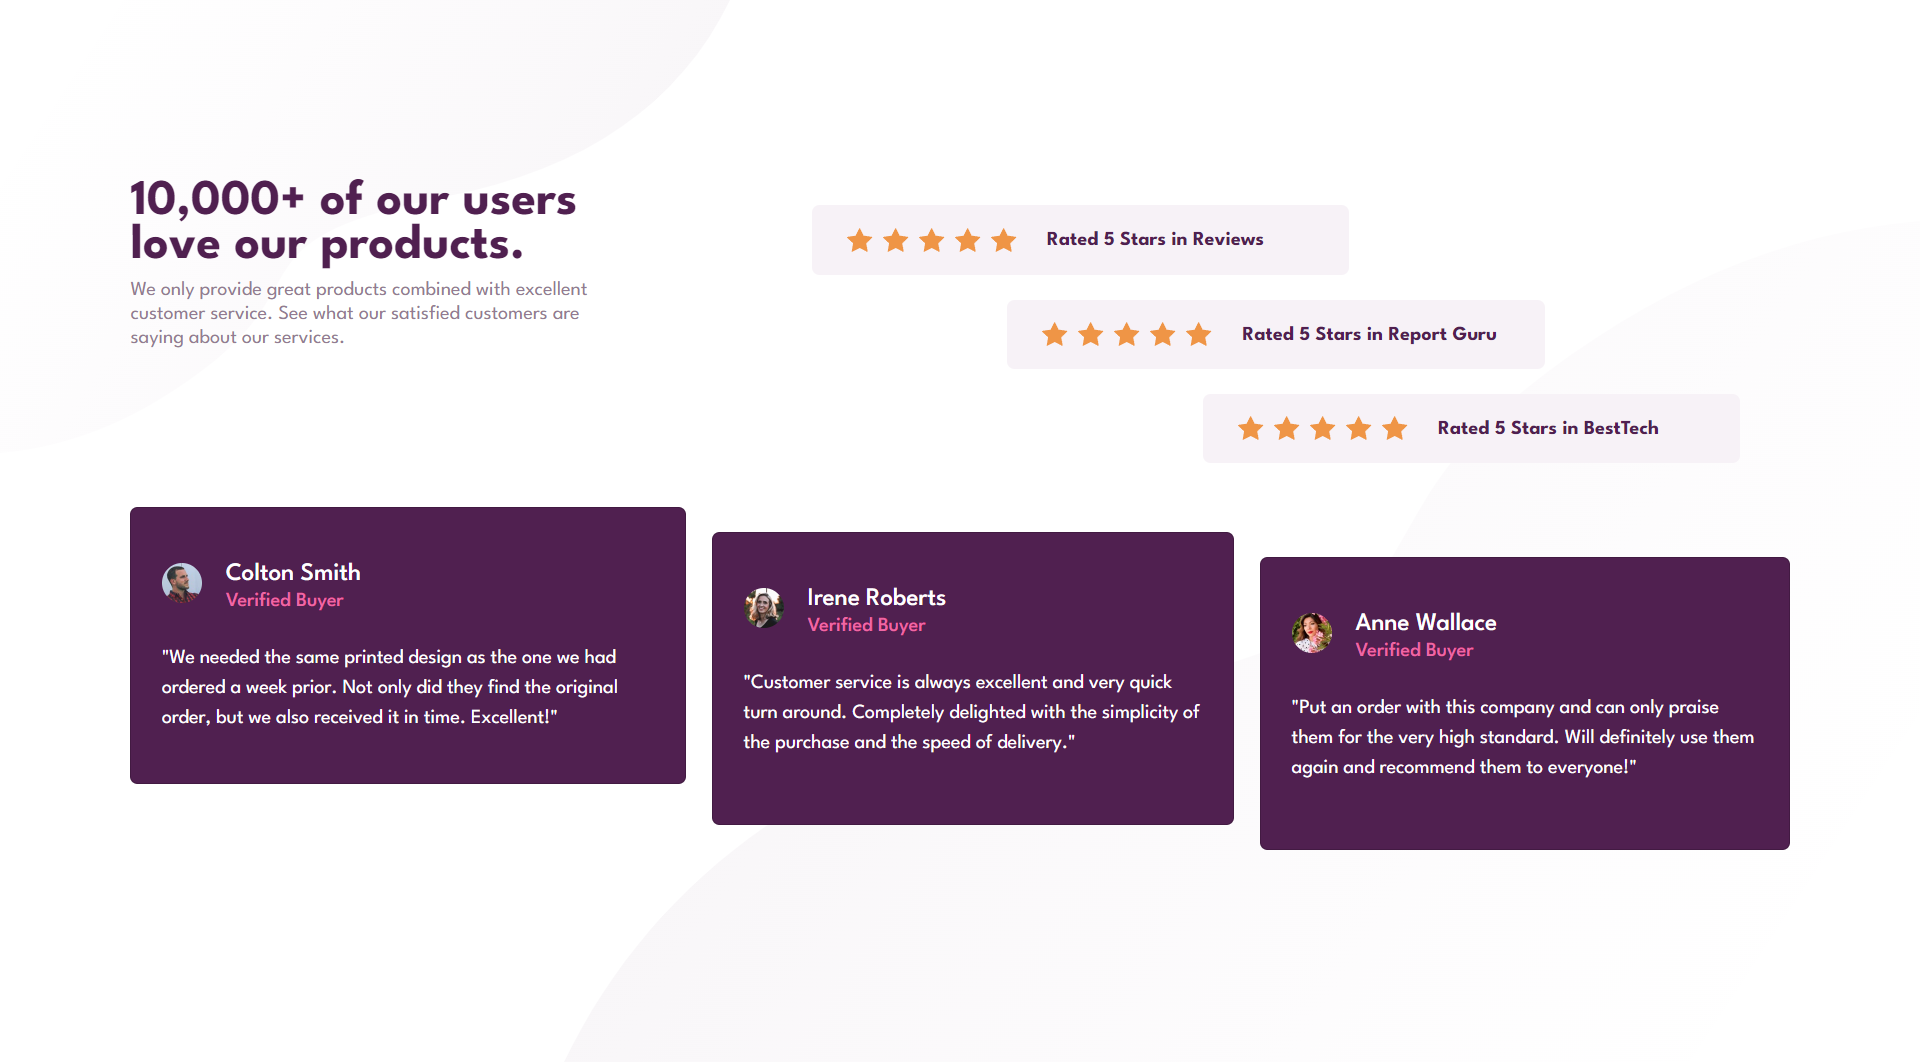
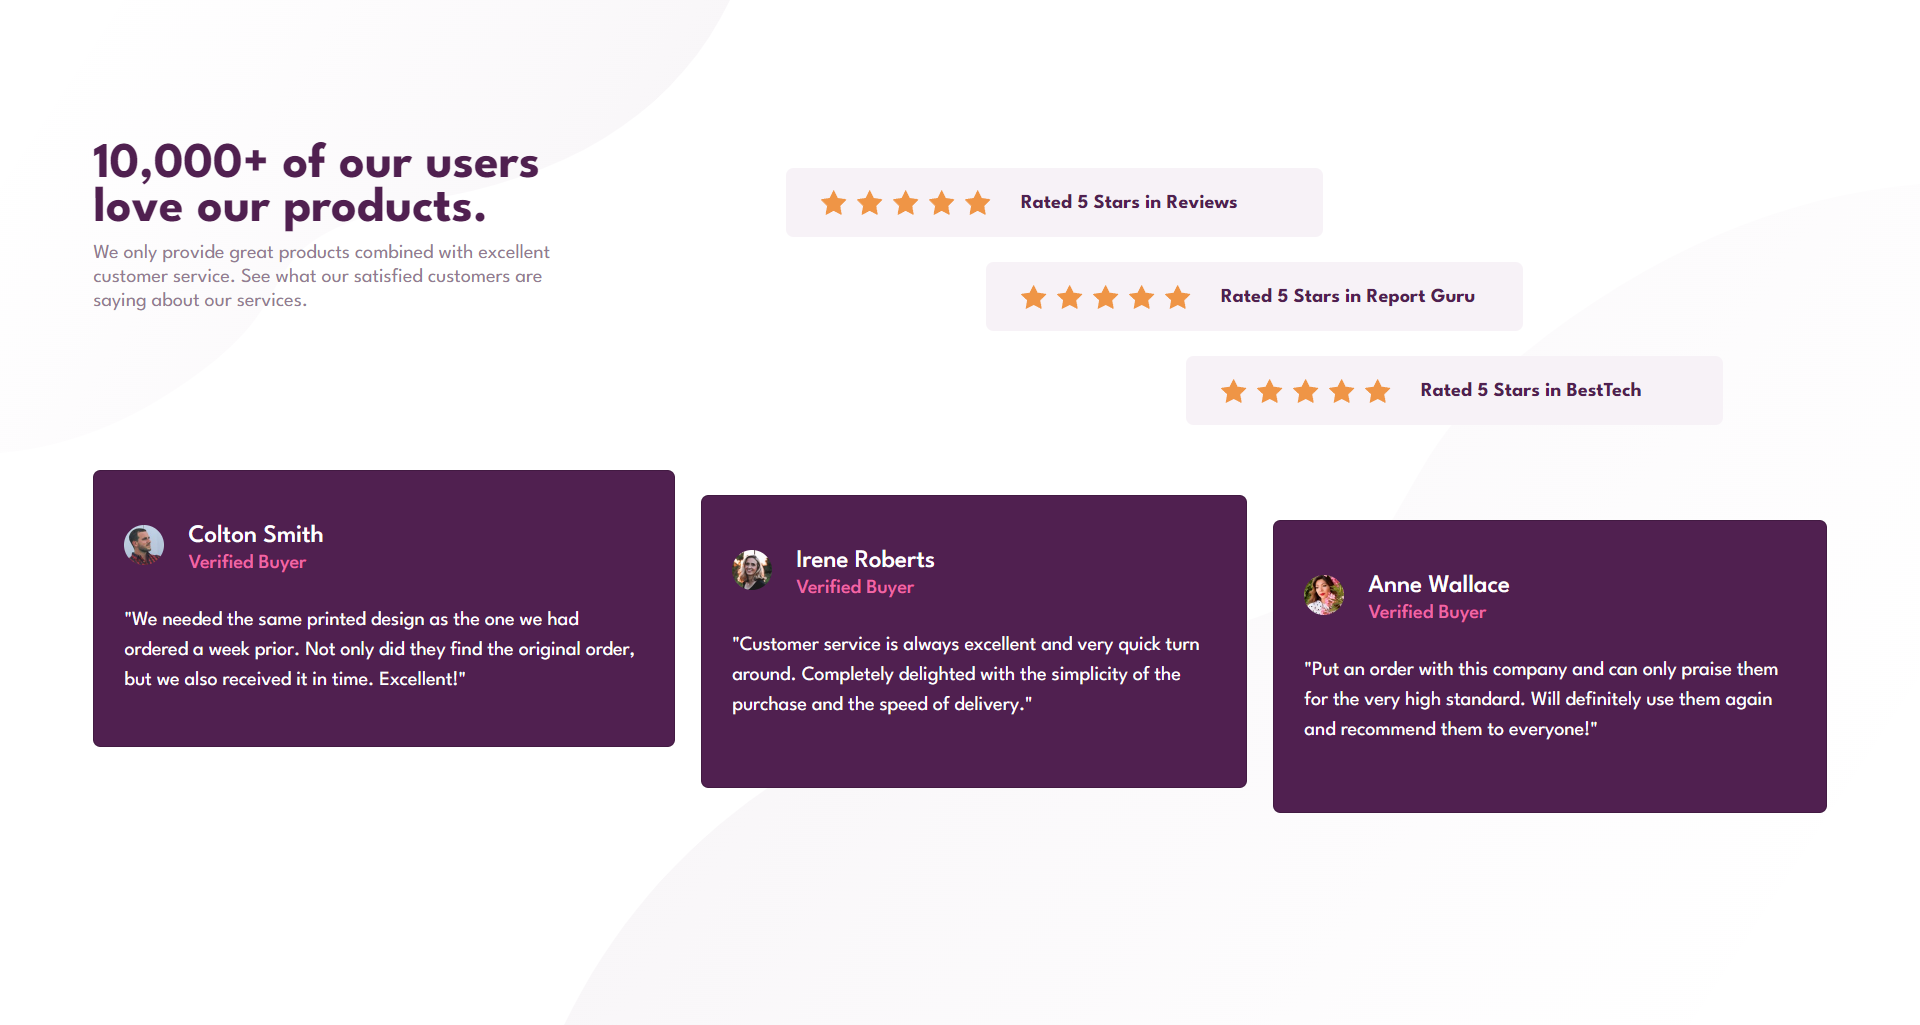
second commit

diff --git a/styles.css b/styles.css
@@ -120,7 +120,8 @@ h6 {
     }
 
     main {
-        margin: 14vh;
+        margin: 10vh;
+        
     }
 
     .section1 {
